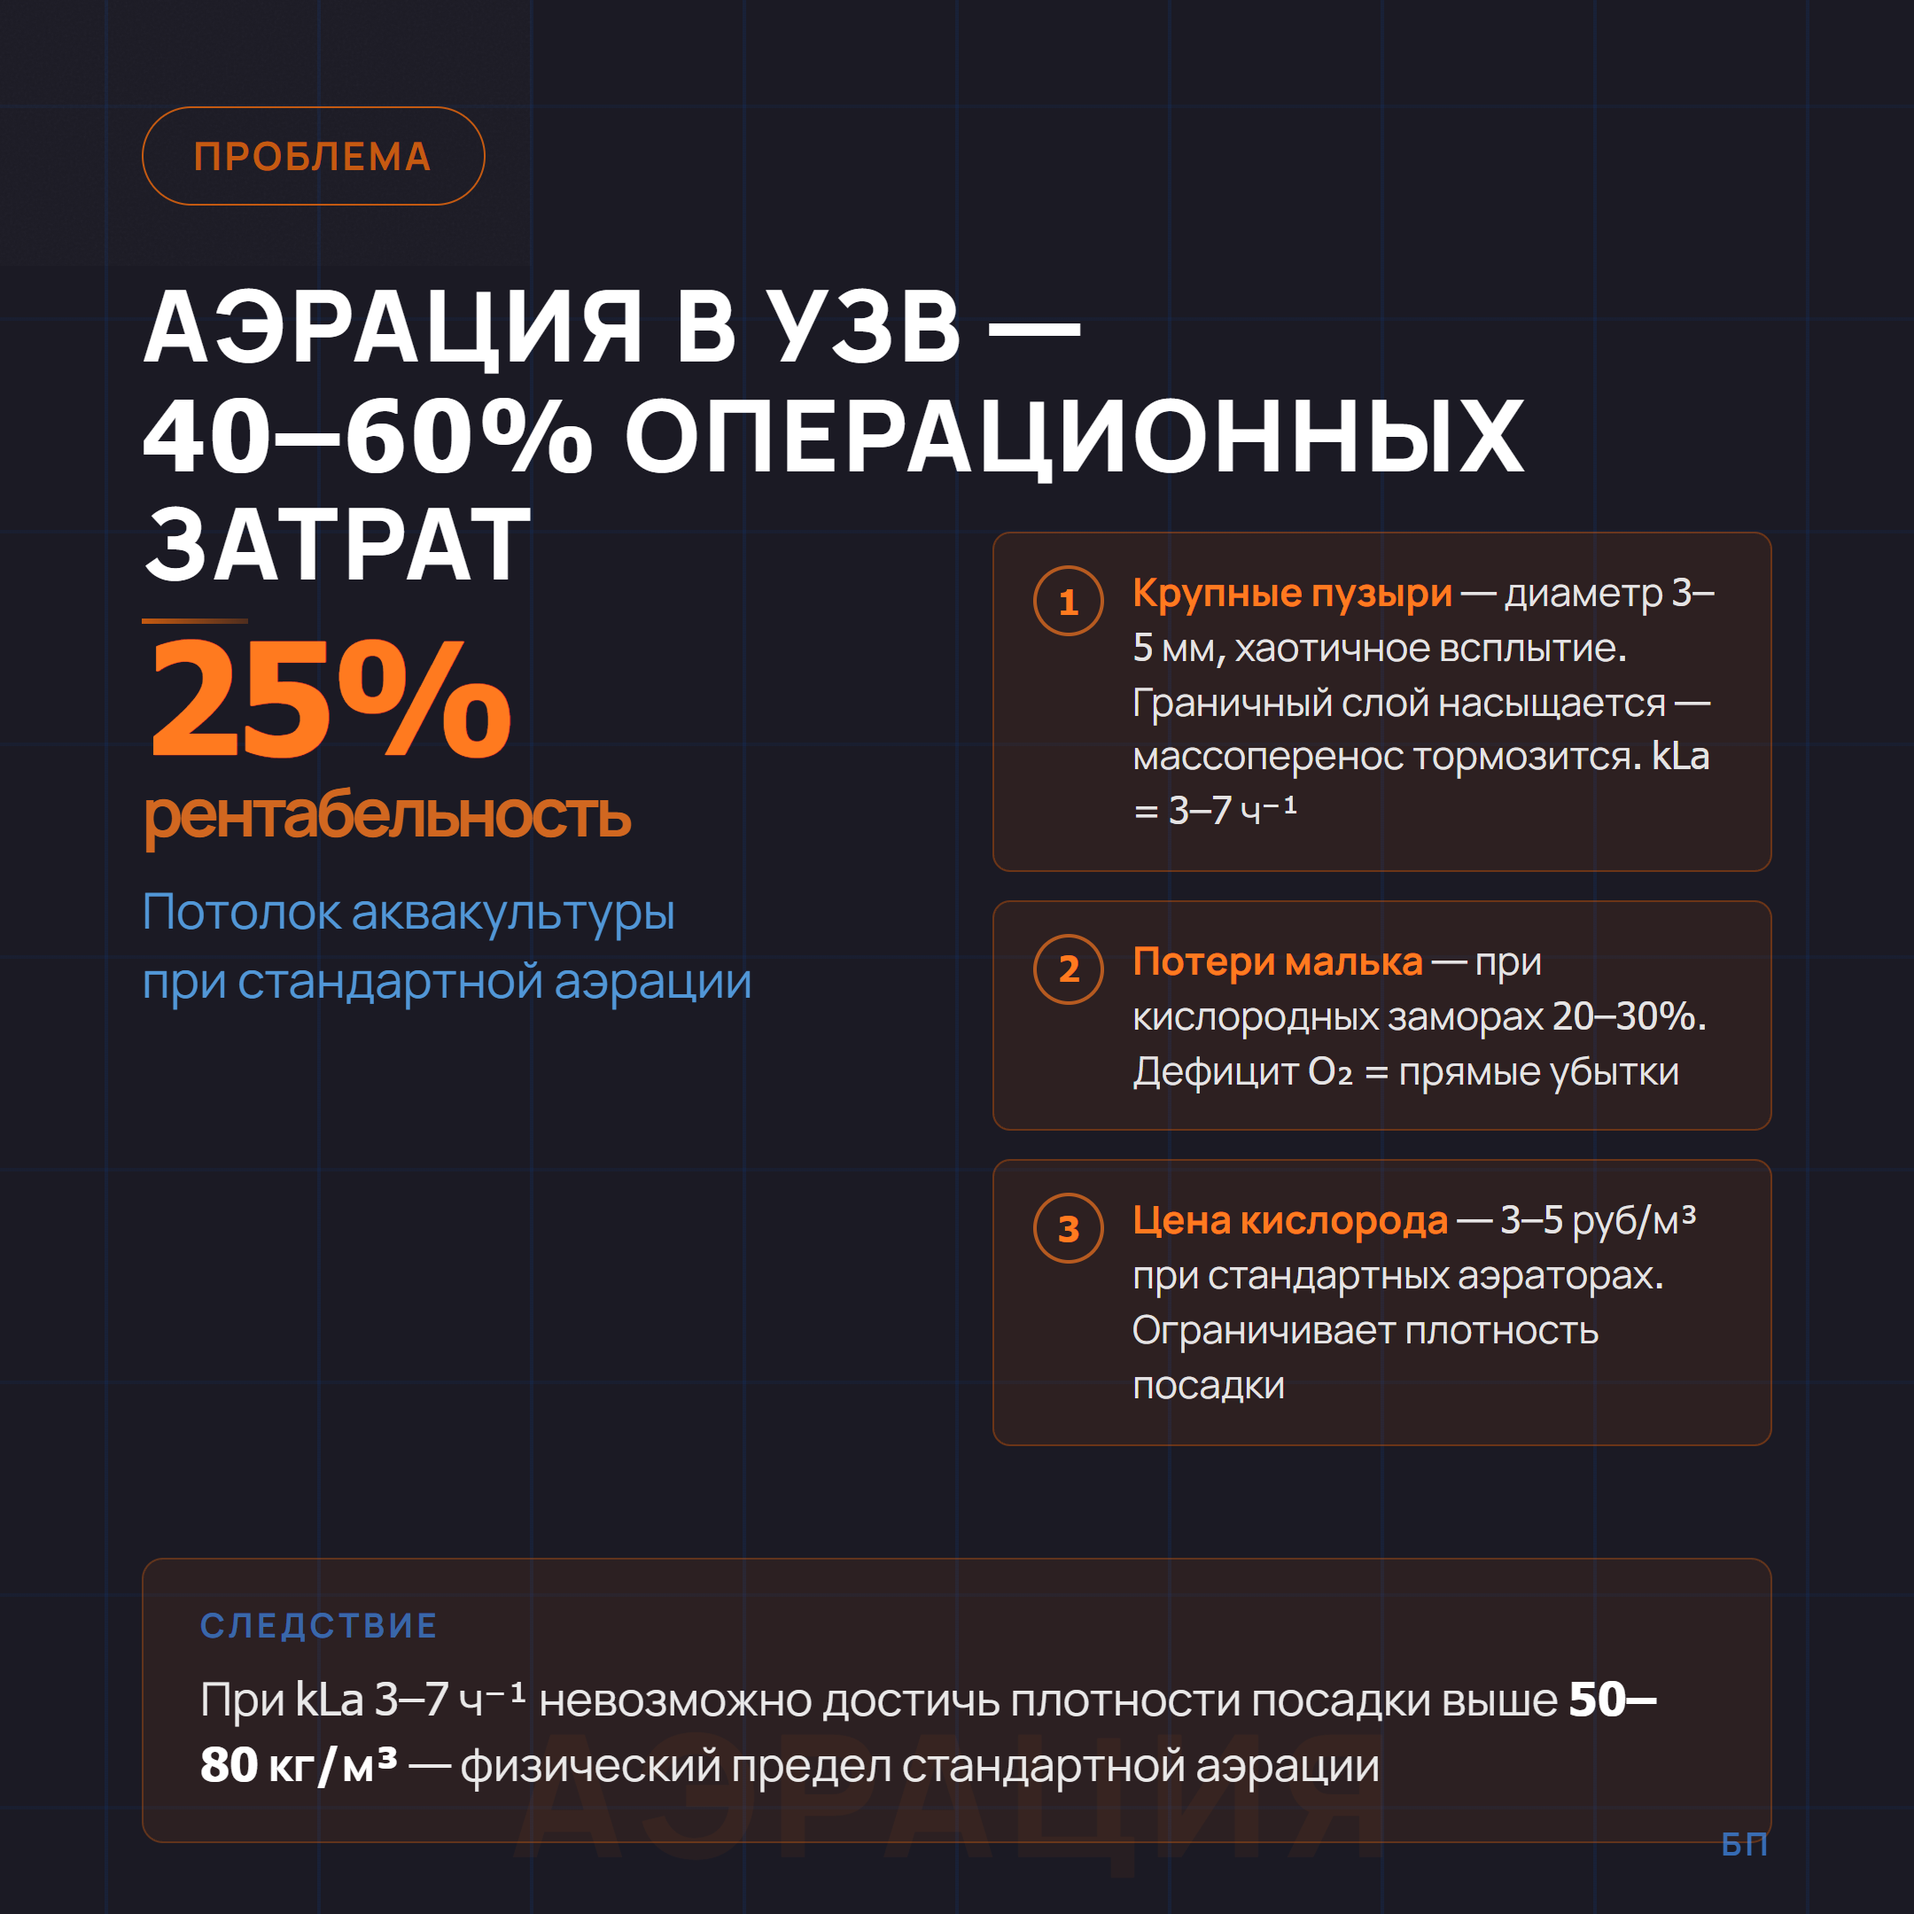
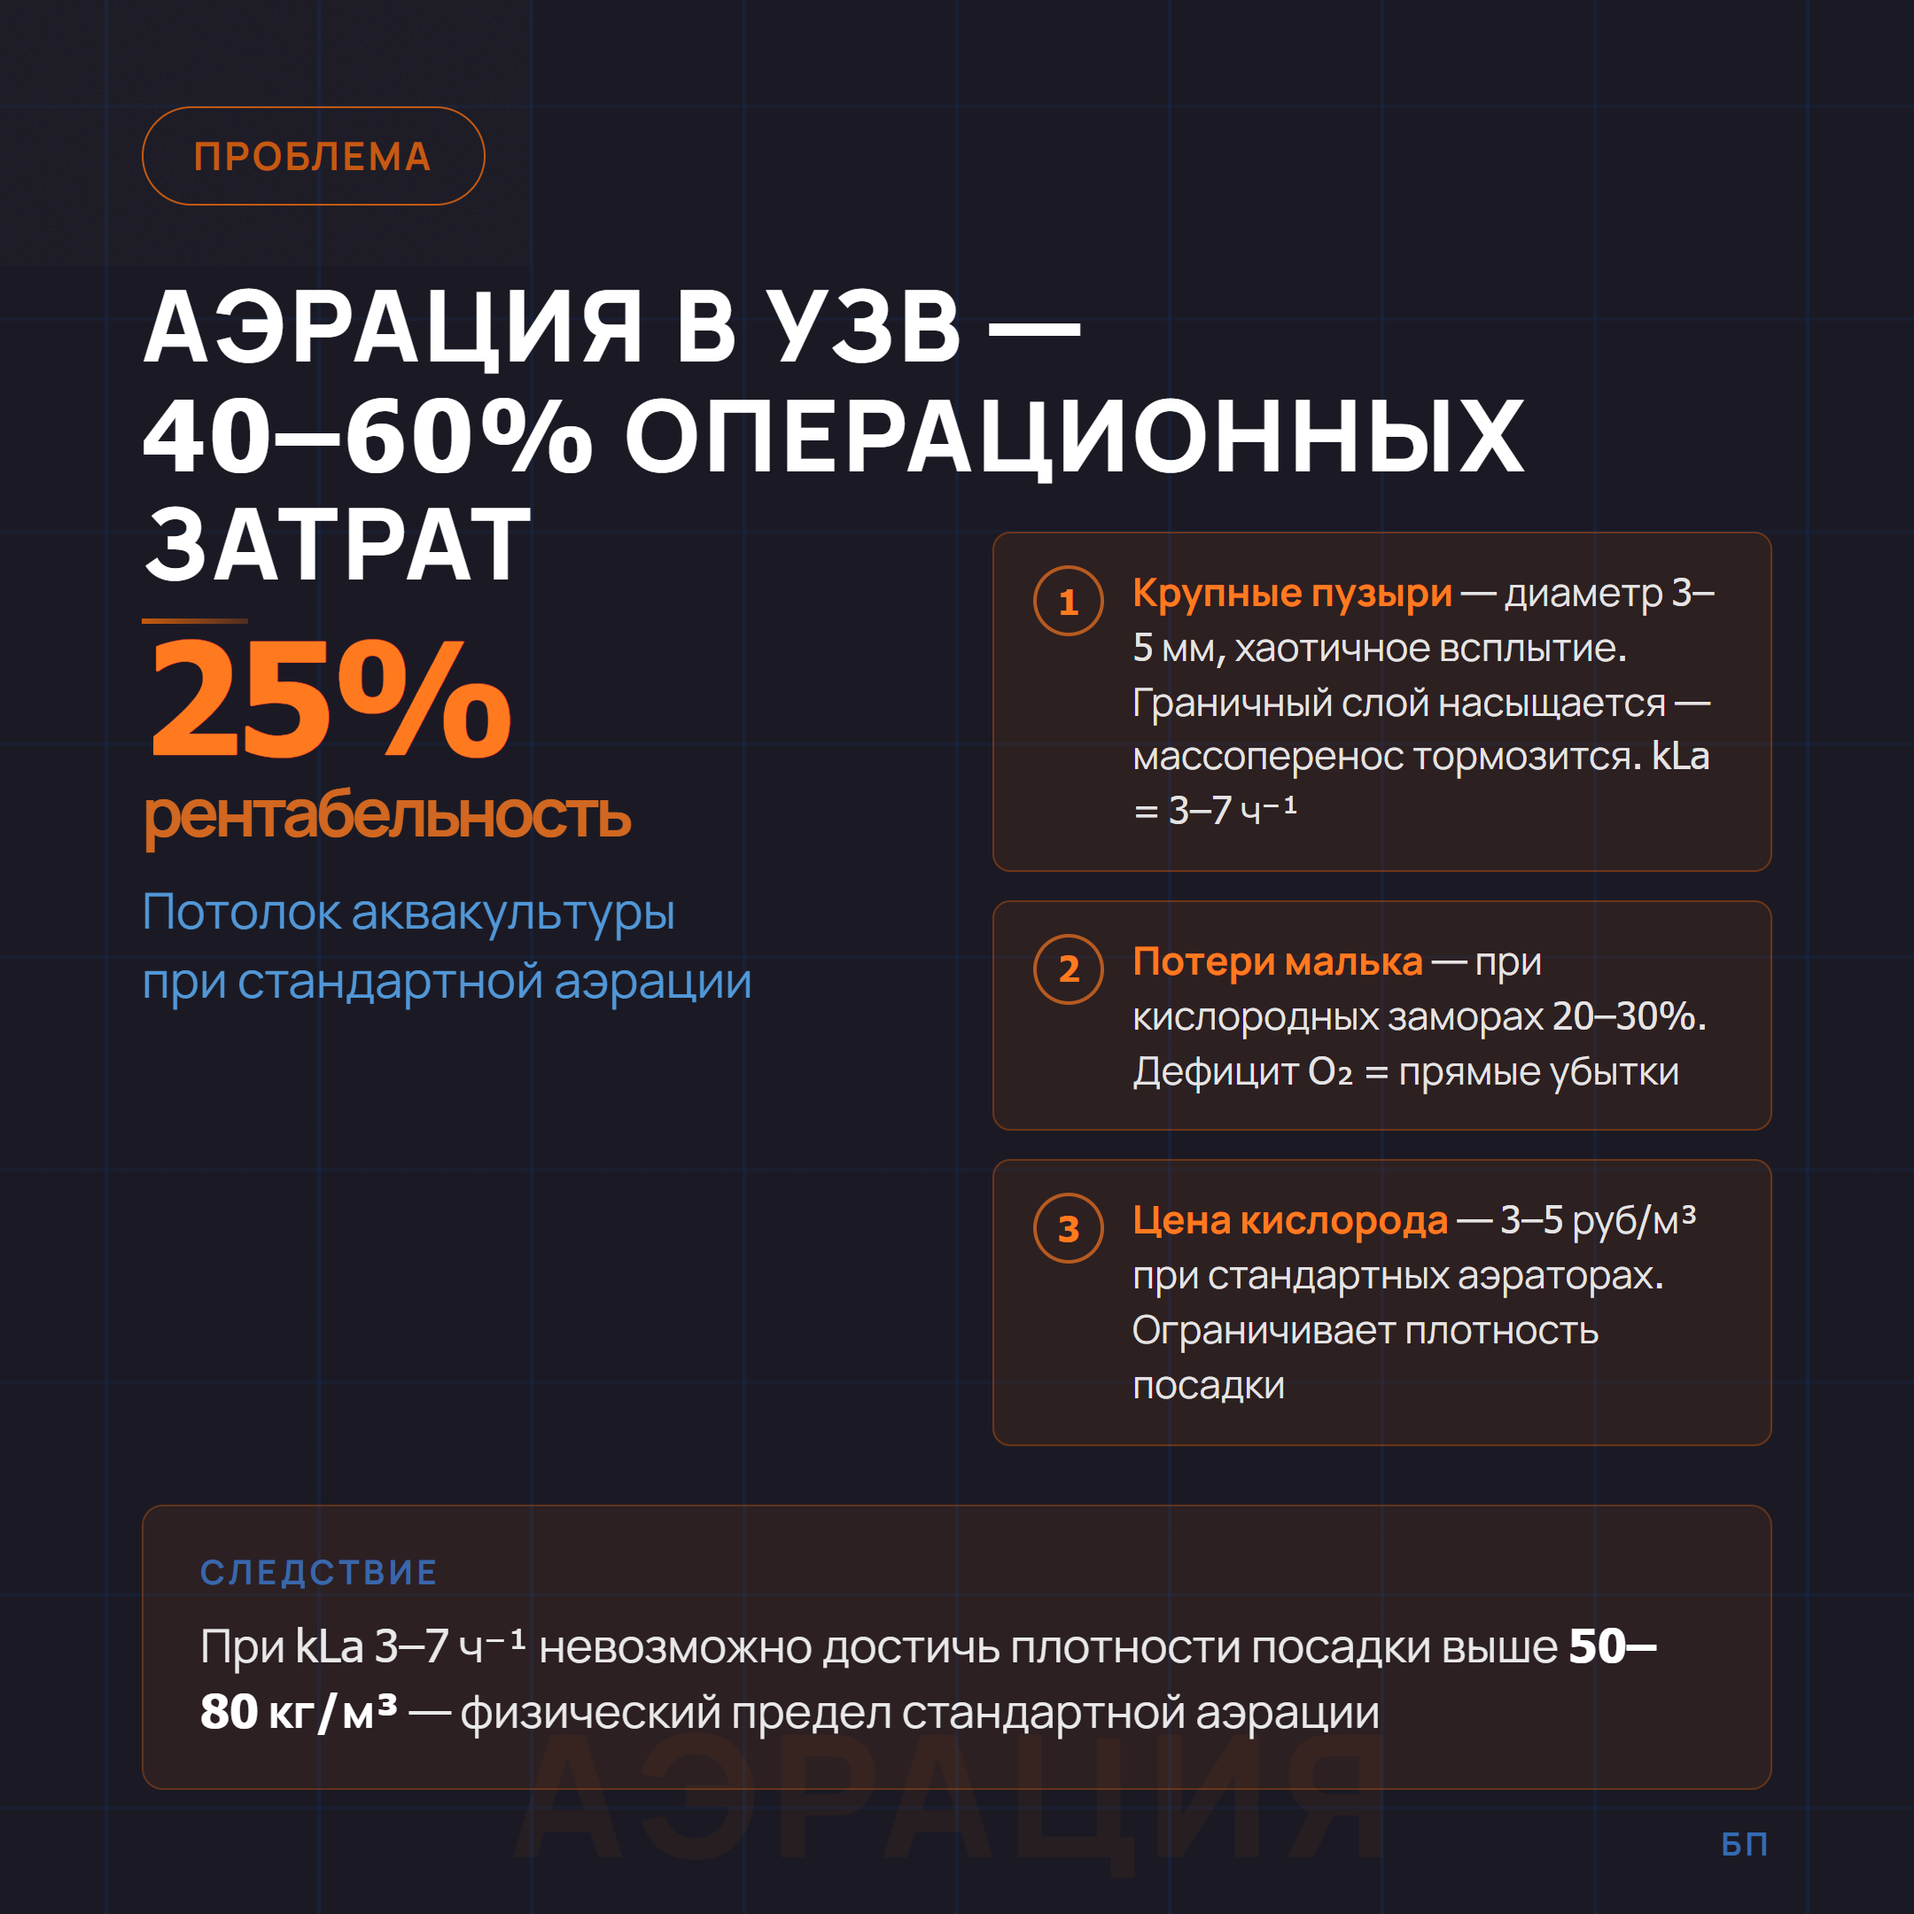
posts: слайд 2 — рамка чуть выше — Bioprintex_Limatex

Changed region(s): [[0.0931, 0.8065, 0.8685, 0.9306]]

diff --git a/projects/Bioprintex_Limatex/posts/drafts/05_05_2026-1/slide_02.html b/projects/Bioprintex_Limatex/posts/drafts/05_05_2026-1/slide_02.html
@@ -67,7 +67,7 @@
 
   /* Нижняя полоса с выводом */
   .conclusion {
-    position: absolute; bottom: 40px; left: 80px; right: 80px;
+    position: absolute; bottom: 70px; left: 80px; right: 80px;
     padding: 24px 32px;
     background: rgba(197,90,17,0.10);
     border: 1px solid rgba(197,90,17,0.35);
